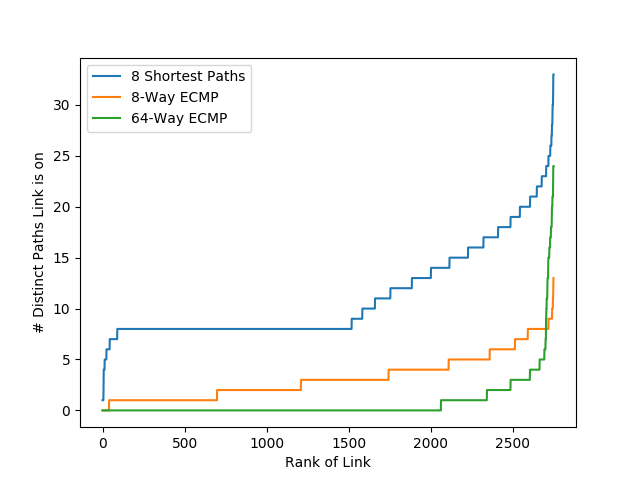
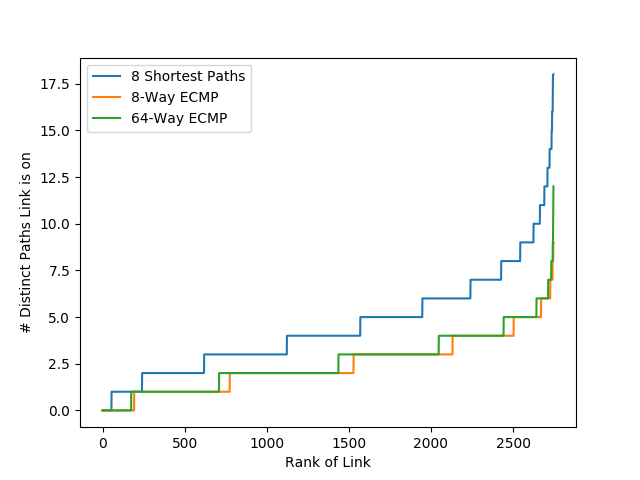
36,4

diff --git a/pox/pox/ext/build_topology.py b/pox/pox/ext/build_topology.py
@@ -67,12 +67,10 @@ class JellyFishTop(Topo):
 
     def connect_servers(self, switches, servers):
         # Add servers
-        switch_num = 0
-        s = switches[switch_num]
         for server in servers:
+            s = random.choice(switches)
             while s.ports_in_use >= self.rack_height:
-                switch_num += 1
-                s = switches[switch_num]
+                s = random.choice(switches)
             self.addLink(server, s.switch)
             self.graph.add_edge(s.switch, server, weight=1)
             s.ports_in_use += 1
@@ -123,34 +121,37 @@ def main():
     shortest8 = dict()
     ecmp8 = dict()
     ecmp64 = dict()
-    for e in g.edges():
+    switches = [s for s in topo.switches()]
+    for e in topo.links():
         shortest8[e] = ecmp8[e] = ecmp64[e] = 0
-    hosts = [s for s in topo.hosts()]
-    traffic = derangement([s for s in topo.hosts()], [s for s in topo.hosts()])
-    for i in tqdm(range(len(hosts))):
-        paths = ksp(topo.graph, 
-            hosts[i], traffic[i], 
-            64, 'weight')
-        lengths = [len(p) for p in paths]
-        shortest = len([l for l in lengths if l == lengths[0]])
-        ecmp8_count, ecmp64_count = min(shortest, 8), min(shortest, 64)
-        for path in paths[:8]:
-            for i in range(0, len(path)-1):
-                if (path[i], path[i+1]) in shortest8:
-                    shortest8[(path[i], path[i+1])] += 1
-                else:
-                    shortest8[(path[i+1], path[i])] += 1
-        for path in paths[:ecmp8_count]:
-            for i in range(0, len(path)-1):
-                if (path[i], path[i+1]) in ecmp8:
-                    ecmp8[(path[i], path[i+1])] += 1
-                else:
-                    ecmp8[(path[i+1], path[i])] += 1
-        for path in paths[:ecmp64_count]:
-            if (path[i], path[i+1]) in ecmp64:
-                ecmp64[(path[i], path[i+1])] += 1
-            else:
-                ecmp64[(path[i+1], path[i])] += 1
+    # I've surmised that server-TOR connections don't count as links
+    for switch_num in tqdm(range(len(switches))):
+        for r in range(topo.rack_height):
+            paths = ksp(copy.deepcopy(topo.graph), 
+                switches[switch_num],
+                switches[(switch_num+r+1)%len(switches)], 
+                64, 'weight')
+            lengths = [len(p) for p in paths]
+            shortest = len([l for l in lengths if l == lengths[0]])
+            ecmp8_count, ecmp64_count = min(shortest, 8), min(shortest, 64)
+            for path in paths[:8]:
+                for i in range(0, len(path)-1):
+                    if (path[i], path[i+1]) in shortest8:
+                        shortest8[(path[i], path[i+1])] += 1
+                    else:
+                        shortest8[(path[i+1], path[i])] += 1
+            for path in paths[:ecmp8_count]:
+                for i in range(0, len(path)-1):
+                    if (path[i], path[i+1]) in ecmp8:
+                        ecmp8[(path[i], path[i+1])] += 1
+                    else:
+                        ecmp8[(path[i+1], path[i])] += 1
+            for path in paths[:ecmp64_count]:
+                for i in range(0, len(path)-1):
+                    if (path[i], path[i+1]) in ecmp64:
+                        ecmp64[(path[i], path[i+1])] += 1
+                    else:
+                        ecmp64[(path[i+1], path[i])] += 1
     table_9(shortest8, ecmp8, ecmp64)
     # net = Mininet(
     #topo=topo, host=CPULimitedHost, link = TCLink, controller=JELLYPOX)
